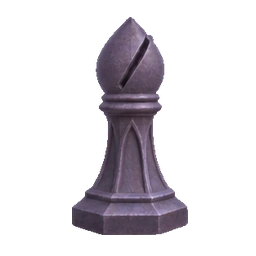
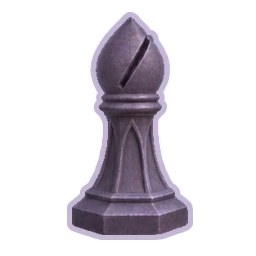
feat(family-chess): drop Medieval and Noble skins, outline Codex Gothic pieces
Family review: Medieval and Noble looked too small and fussy on a small
screen, so they are removed from the app (records kept in the Codex docs).
Codex Gothic pieces get a baked outline (dark rim on white, pale rim on black)
for readability on both square colours; originals kept under art-source and
the step is reproducible with scripts/outline-skin.cjs.

Claude-Session: https://claude.ai/code/session_013ecG3rLmL5mGy85zCQT4GS

Changed region(s): [[0.25, 0.0312, 0.7812, 0.9375]]

diff --git a/games/family-chess-premium/src/skins.ts b/games/family-chess-premium/src/skins.ts
@@ -43,25 +43,11 @@ export const SKINS: Skin[] = [
   { id: 'gothic', author: 'Claude', name: { ko: '고딕 성채', en: 'Gothic Keep' }, desc: { ko: '상아·흑보라 철 기물, 보랏빛 석판', en: 'Bone and violet iron on twilight stone' } },
   // Codex skins are appended here by the Codex task (see docs/CODEX_TASK_SKINS.md).
   {
-    id: 'medieval-codex', author: 'Codex',
-    name: { ko: '중세', en: 'Medieval' },
-    desc: { ko: '담백한 회색 석상과 옅은 대리석 결', en: 'Quiet gray stone figures and softly veined marble' },
-    pieces: { dir: 'skins/medieval-codex', ext: 'webp' },
-    board: { light: 'skins/medieval-codex/board-light.webp', dark: 'skins/medieval-codex/board-dark.webp', coord: '#c9cbcd', outline: 'rgba(172,175,180,0.55)' },
-  },
-  {
     id: 'gothic-codex', author: 'Codex',
     name: { ko: '고딕', en: 'Gothic' },
     desc: { ko: '간결한 첨탑 기물과 차분한 보라 석판', en: 'Simple spired pieces on muted violet slate' },
     pieces: { dir: 'skins/gothic-codex', ext: 'webp' },
     board: { light: 'skins/gothic-codex/board-light.webp', dark: 'skins/gothic-codex/board-dark.webp', coord: '#d0c8db', outline: 'rgba(171,159,190,0.55)' },
-  },
-  {
-    id: 'noble-codex', author: 'Codex',
-    name: { ko: '노블', en: 'Noble' },
-    desc: { ko: '백석·흑석 갑옷 석상과 묵직한 성채 바닥', en: 'White and black armored statues on quiet castle stone' },
-    pieces: { dir: 'skins/noble-codex', ext: 'webp' },
-    board: { light: 'skins/noble-codex/board-light.webp', dark: 'skins/noble-codex/board-dark.webp', coord: '#d5d8dd', outline: 'rgba(176,183,193,0.55)' },
   },
 ];
 

diff --git a/docs/WORK_LOG.md b/docs/WORK_LOG.md
@@ -1465,3 +1465,11 @@
 - 지적: ① [판단 필요] 노블(`noble-codex`)은 사용자 사진 속 조형을 "가능한 한 충실히" 재구성하도록 한 프롬프트로 제작 — 시판 상품이면 제3자 조형의 2차 저작물에 가까움. 가족 기기 개인 사용은 문제 작으나 외부 배포·공개 시 위험, 이름 'Noble'의 제조사명 중복 가능성. 개인용 명시·배포 시 제외·개명 권고 ② [가독성] 노블 흰 기물/밝은 칸·검은 기물/어두운 칸, 중세 검은 기물/어두운 칸 대비 낮음, 노블 폰 60px에서 뭉개짐, 킹·퀸 작음 — 외곽 테두리·명도 조정·약 10% 확대 권고 ③ [낮음] 원화 PNG 약 25MB 저장소 커밋 ④ [확인 불가] Codex 비교 검사 13개는 재실행하지 않음.
 - 결론: 막는 결함 0, 판단 필요 1, 개선 권고 2, 확인 불가 1. PR 리뷰(COMMENT)로 게시. 가족 선택 전 병합 금지 유지.
 - 사용자 재요청 횟수: 0회. 다음: 가족 외형 선택 → 선택안 보완(Codex) → 재검토.
+
+### 2026-11-03 (Asia/Seoul) · 가족 스킨 선택 반영: 중세·노블 제외, Codex 고딕 윤곽 보완
+
+- 담당 AI: Claude Code(사용자 지시 "보완은 직접 해주세요" — Codex 산출물이지만 사용자 개별 지시가 역할 분담보다 우선). 기준 `5c06a3f`, 원격 신규 커밋 없음 확인 후 작업.
+- 사용자 결정: 중세·노블은 너무 작고 세부가 작은 화면에서 조악해 보여 제외. Codex 고딕은 깔끔하나 윤곽이 약함 → 윤곽 보완 후 Claude 고딕과 비교.
+- 변경: `src/skins.ts`에서 `medieval-codex`·`noble-codex` 제거, `public/skins/medieval-codex|noble-codex` 삭제(저장된 프로필은 기존 복구 로직으로 classic). `scripts/outline-skin.cjs` 추가, Codex 고딕 기물 12개에 윤곽(흰 기물 어두운 보라 회색, 검은 기물 옅은 라벤더, 반경 5px/256px) — 원본은 `scripts/art-source/codex-skins/gothic-codex-original/` 보존. README·PROVENANCE 갱신. Codex 인계문·비교 캡처·제작 스크립트는 당시 기록으로 유지.
+- 테스트: Vitest 396/396, 빌드 성공. 853×533@1.5에서 Claude 고딕 / Codex 고딕 보완 전·후 비교 캡처를 사용자에게 제시. 실기 미확인.
+- 다음: 가족이 고딕 두 안 중 선택 → 남길 스킨 확정 → PR #23 정리.

diff --git a/games/family-chess-premium/README.md b/games/family-chess-premium/README.md
@@ -5,7 +5,7 @@
 
 ## Codex 비교용 스킨 (2026-11-03)
 
-설정 → 스킨에서 **고딕·중세·노블**을 선택할 수 있습니다. 기존 Claude안도 함께 남겨 가족이 비교합니다. 세트별 밝은/어두운 판 텍스처가 있으며 노블은 백석/흑석 진영을 구분했습니다. [기물 나열·같은 수순의 비교 캡처·검증](docs/screenshots/skin-compare/README.md), [최종 코드 인계/Claude Code 전달문](docs/CODEX_SKINS_HANDOFF.md)을 참고하세요. 메뉴 상세 일러스트는 기물 모양 선택 이후 별도로 진행합니다.
+설정 → 스킨에서 **클래식 원목·마법사의 석실·고딕 성채(Claude안)**와 **고딕(Codex안)**을 선택할 수 있습니다. Codex가 함께 만든 중세·노블 세트는 가족 검토 결과(2026-11-03, 작은 화면에서 세부가 조악해 보임)로 앱에서 제외했고, 제작 기록은 아래 문서에 남아 있습니다. Codex 고딕 기물에는 판 위 가독성을 위해 윤곽선을 덧입혔습니다(`scripts/outline-skin.cjs`, 원본은 `scripts/art-source/codex-skins/gothic-codex-original/`). [기물 나열·같은 수순의 비교 캡처·검증](docs/screenshots/skin-compare/README.md), [최종 코드 인계/Claude Code 전달문](docs/CODEX_SKINS_HANDOFF.md)을 참고하세요. 메뉴 상세 일러스트는 기물 모양 선택 이후 별도로 진행합니다.
 
 ## 주요 기능
 

diff --git a/games/family-chess-premium/public/skins/gothic-codex/PROVENANCE.md b/games/family-chess-premium/public/skins/gothic-codex/PROVENANCE.md
@@ -25,3 +25,7 @@ A square 1024x1024 flat PURPLE SLATE SURFACE MATERIAL texture for a restrained g
 ## Gothic dark texture → gothic-dark.png
 
 1024x1024 square seamless muted deep PLUM PURPLE SLATE material map, flat overhead one continuous slab. Base #494054 cool dusk purple, quiet broad areas with faint lavender mineral clouding and sparse fine slate grain. Matte honed stone, low contrast uniform ambient light, no specular highlights. A family chessboard dark square material under pale lavender and dark violet chess sculptures. Not black, not flashy. No checkerboard/grid/pieces/text/borders/runes/glow/fire/lightning/cracks/gold or perspective. Refined natural stone.
+
+## 2026-11-03 윤곽 보완 (Claude Code, 사용자 지시)
+
+가족 검토에서 판 위 윤곽이 약하다는 의견으로, 기물 12개에 윤곽선을 덧입혔습니다. 흰 기물은 `#2a2233`, 검은 기물은 `#c4b9d6`, 256px 기준 반경 5px, 32방향 실루엣 겹침. 재현: `NODE_PATH=$(npm root -g) node scripts/outline-skin.cjs scripts/art-source/codex-skins/gothic-codex-original public/skins/gothic-codex`. 원본은 `scripts/art-source/codex-skins/gothic-codex-original/`.

diff --git a/docs/STATUS.md b/docs/STATUS.md
@@ -14,6 +14,7 @@
 
 ## 개발 완료·검토 대기 · 우리집 체스 PREMIUM v1.0.0 → 제목 CHESS MASTER (새 게임, `games/family-chess-premium/`)
 
+- 가족 스킨 선택 반영(2026-11-03): Codex 중세·노블 제외, Codex 고딕 윤곽 보완. 남은 비교: Claude 고딕 vs Codex 고딕. PR #23 draft 유지.
 - 스킨 선택(2026-11-03): 클래식 원목 / 마법사의 석실 / 고딕 성채, 프로필별 저장, '화려하지 않게' 기준. 메뉴 상세 일러스트는 Codex 대기(`games/family-chess-premium/docs/CODEX_TASK_SKINS.md`). 사용자 외형 판단 대기.
 - 저가형 태블릿 대응·글꼴 교체(2026-11-03): 구형 WebView 대체 CSS, 세로 메뉴 수정, 작은 화면 아카데미 정리, 설정에 기기 진단 줄, 글꼴 고운돋움·고운바탕·Nunito. 실기 확인 대기.
 - Lichess 문제 적용(2026-11-03): Lichess 퍼즐 DB(CC0)에서 201개 선별·깊이 20 재검증 201/201 → 문제 총 322개(기존 121개·ID·기록 유지, 122번부터 `LI-…`). 단위 391/391, E2E 22/22.
